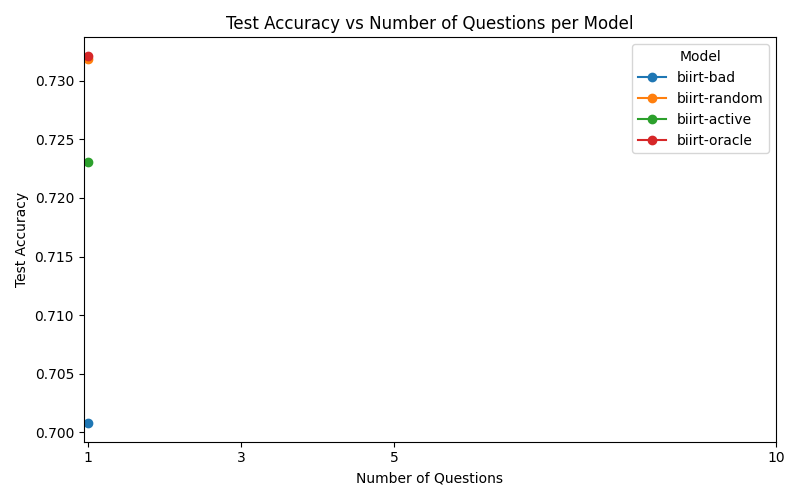
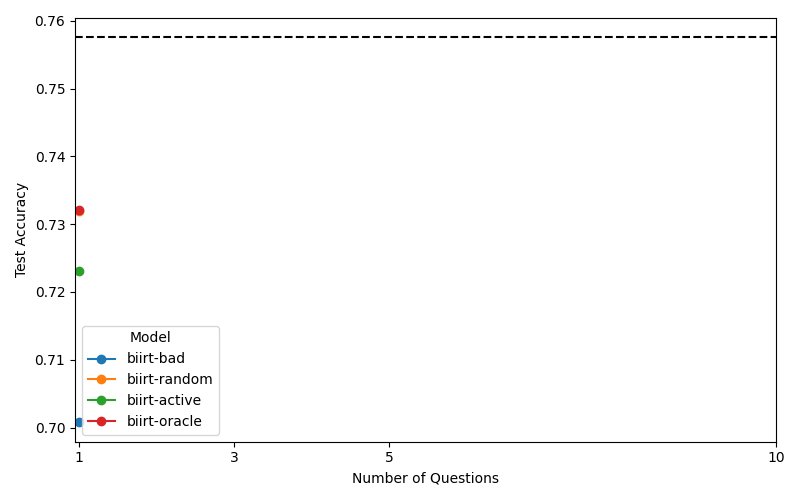
testing

diff --git a/make_chart.py b/make_chart.py
@@ -1,11 +1,10 @@
 import pandas as pd
 import matplotlib.pyplot as plt
 
-# Load data and strip column names to remove hidden spaces
-df = pd.read_csv('results.csv')
+
+df = pd.read_csv('results-0.75.csv')
 df.columns = df.columns.str.strip()
 
-# Create the line chart
 plt.figure(figsize=(8, 5))
 
 # Plot each model as a separate line
@@ -13,52 +12,17 @@ for model in df['model'].unique():
     subset = df[df['model'] == model]
     plt.plot(subset['n_query'], subset['test_accuracy'], marker='o', label=model)
 
-# Configure plot
+theoretical_best = 0.757588
+plt.axhline(y=theoretical_best, color='black', linestyle='--')
+
 plt.xlabel('Number of Questions')
 plt.ylabel('Test Accuracy')
-plt.title('Test Accuracy vs Number of Questions per Model')
+plt.title('')
 plt.legend(title='Model')
 plt.grid(False)
 plt.xticks([1, 3, 5, 10])  # Only show specific x-axis values
 plt.tight_layout()
 
-# Save figure
+
 plt.savefig('model-comparison.png')
 
-# import pandas as pd
-# import matplotlib.pyplot as plt
-
-# # Sample data
-# data = {
-#     "Model": [
-#         "biirt-bad", # 1, 0.7008
-#         "biirt-random", # 2
-#         "biirt-active", # 2
-#         "biirt-oracle", # 2
-#         "biirt-random", # 5
-#         "biirt-active", # 5
-#         "biirt-oracle", # 5
-#         "biirt-random", # 10
-#         "biirt-active", # 10
-#         "biirt-oracle" # 10
-#     ],
-#     "Questions": [1, 2, 2, 2, 5, 5, 5, 10, 10, 10],
-#     "Test Accuracy": [0.7008, 0.72, 0.74, 0.75, 0.73, 0.74, 0.75, 0.73, 0.74, 0.75]
-# }
-
-# df = pd.DataFrame(data)
-
-# # Create the line chart
-# plt.figure(figsize=(8, 5))
-# for model in df['Model'].unique():
-#     subset = df[df['Model'] == model]
-#     plt.plot(subset['Questions'], subset['Test Accuracy'], marker='o', label=model)
-
-# plt.xlabel('Number of Questions')
-# plt.ylabel('Test Accuracy')
-# plt.title('Test Accuracy vs Number of Questions per Model')
-# plt.legend(title='Model')
-# plt.grid(False)
-# plt.xticks([1, 3, 5, 10]) 
-# plt.tight_layout()
-# plt.savefig('data/model-comparision.png')

diff --git a/best.py b/best.py
@@ -11,7 +11,7 @@ Calculate the theoretical best prediction accuracy.
         - e.g. correct = 1 -> 1 --- (1-0.8) = 0.2 ****** CORRECT is already 1 or 0 
 '''
 
-df = pd.read_csv("data/synthetic/bad-noise_df.csv")
+df = pd.read_csv("data/synthetic/low-best/bad_noise_df.csv")
 
 
 theoretical_best = (df['probability'].round() == df['correct']).mean()
